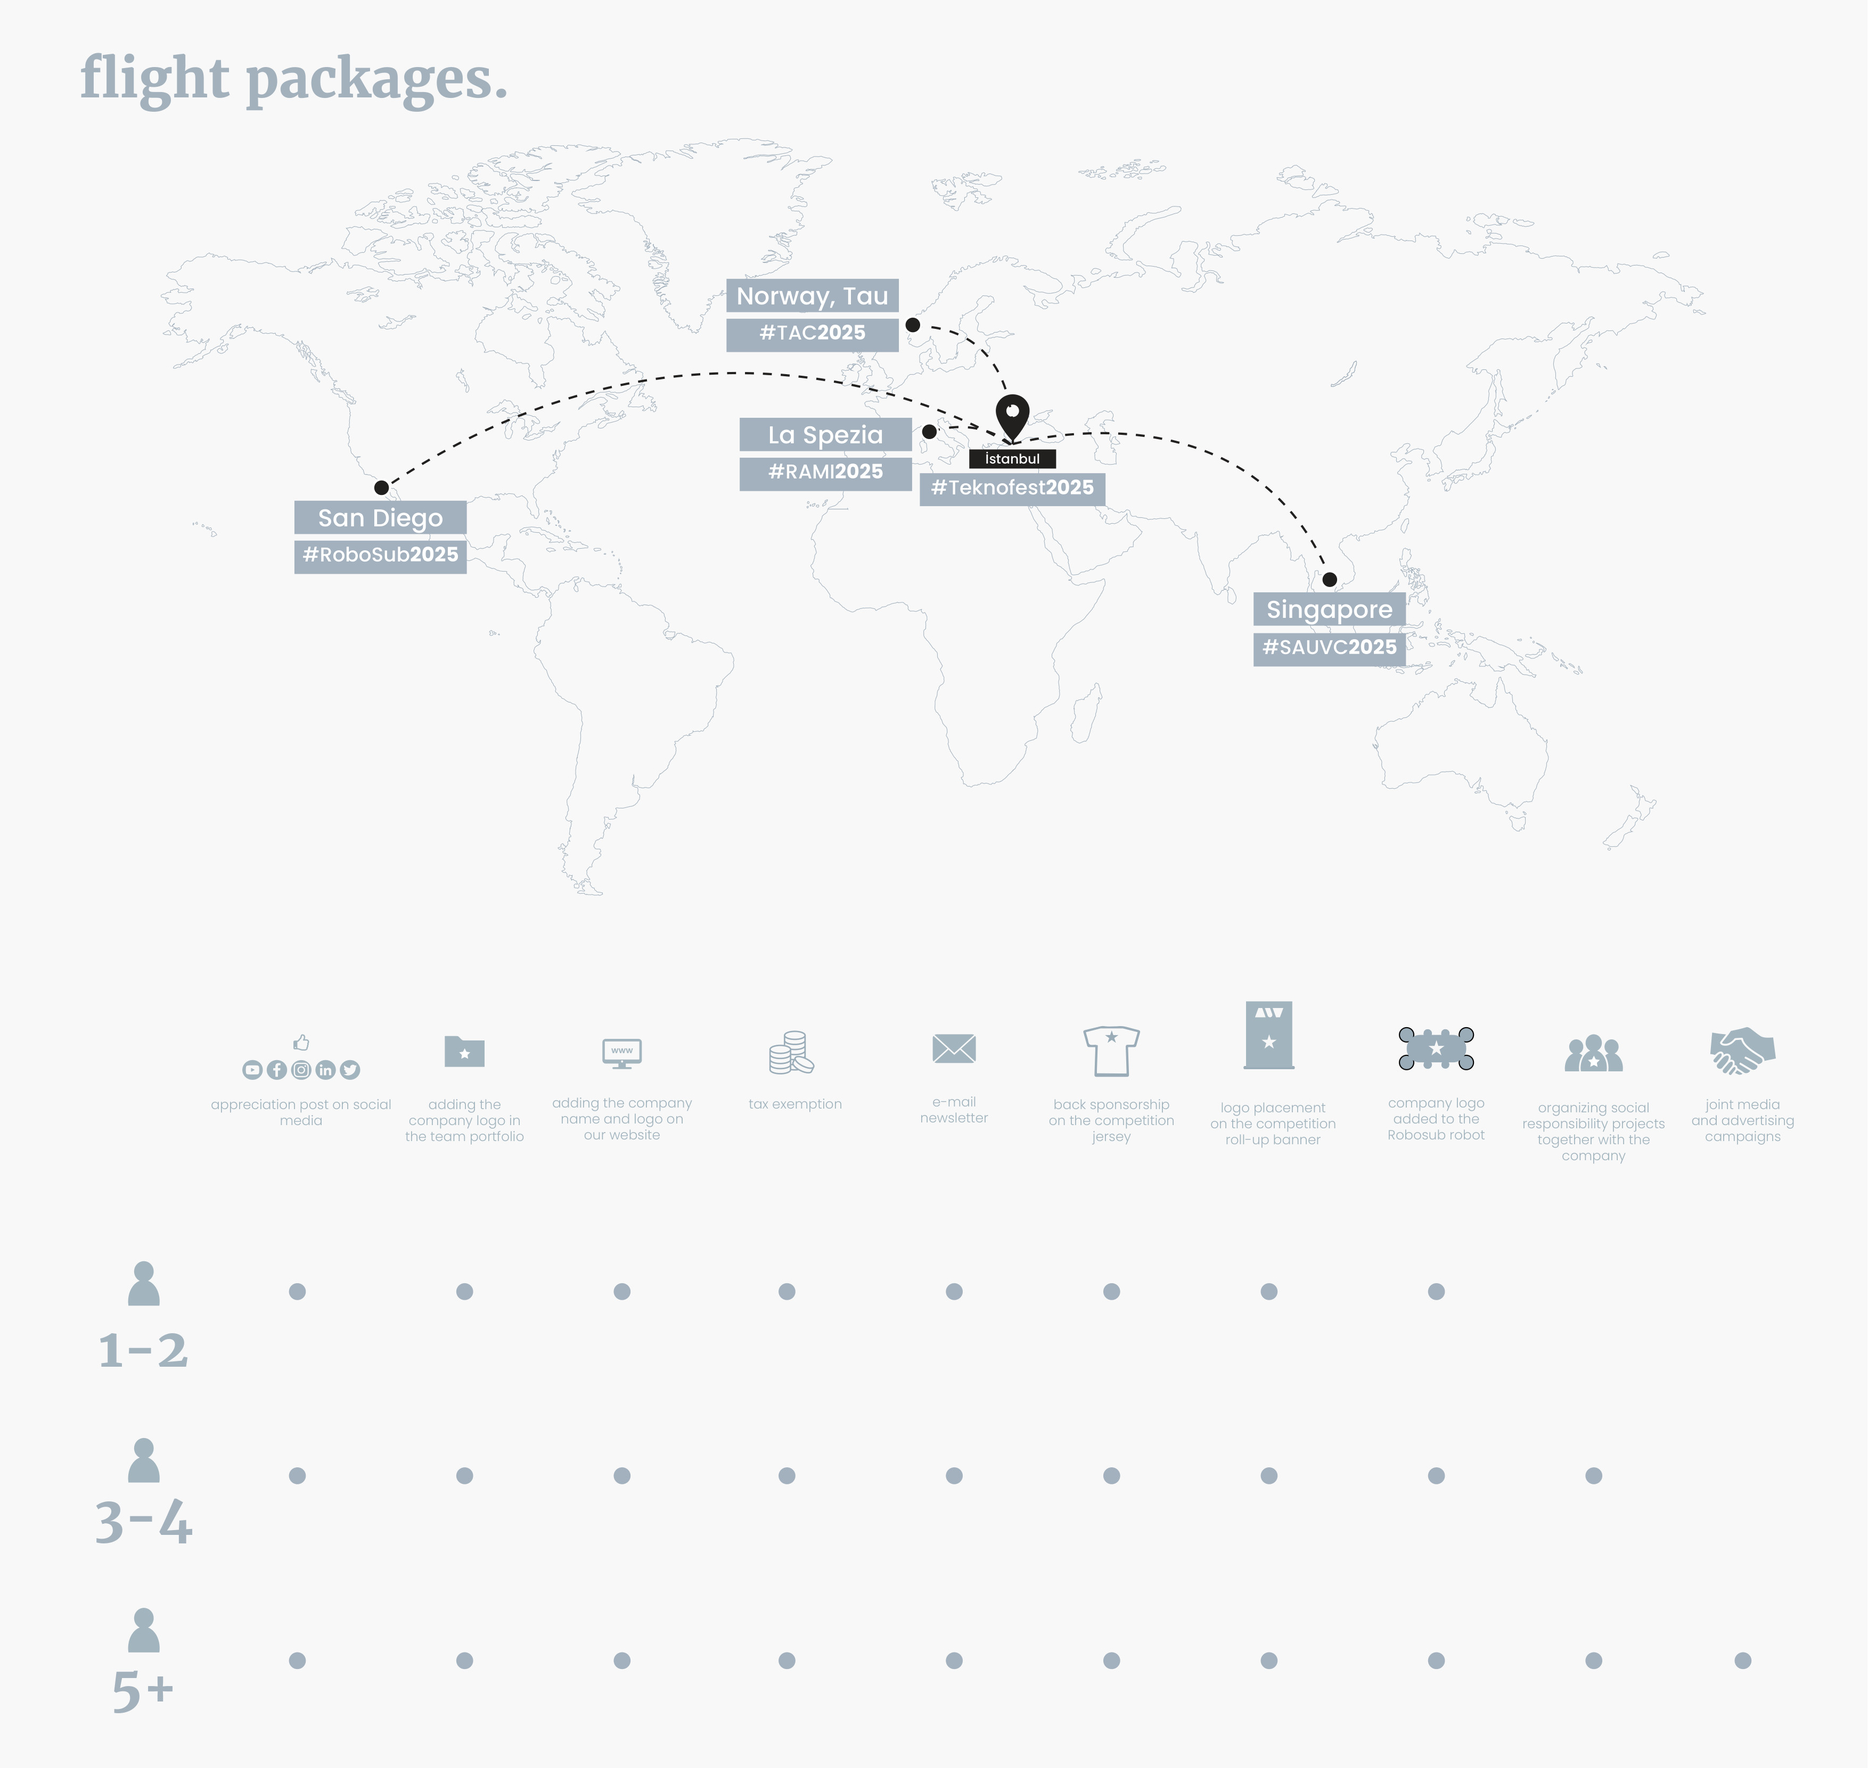
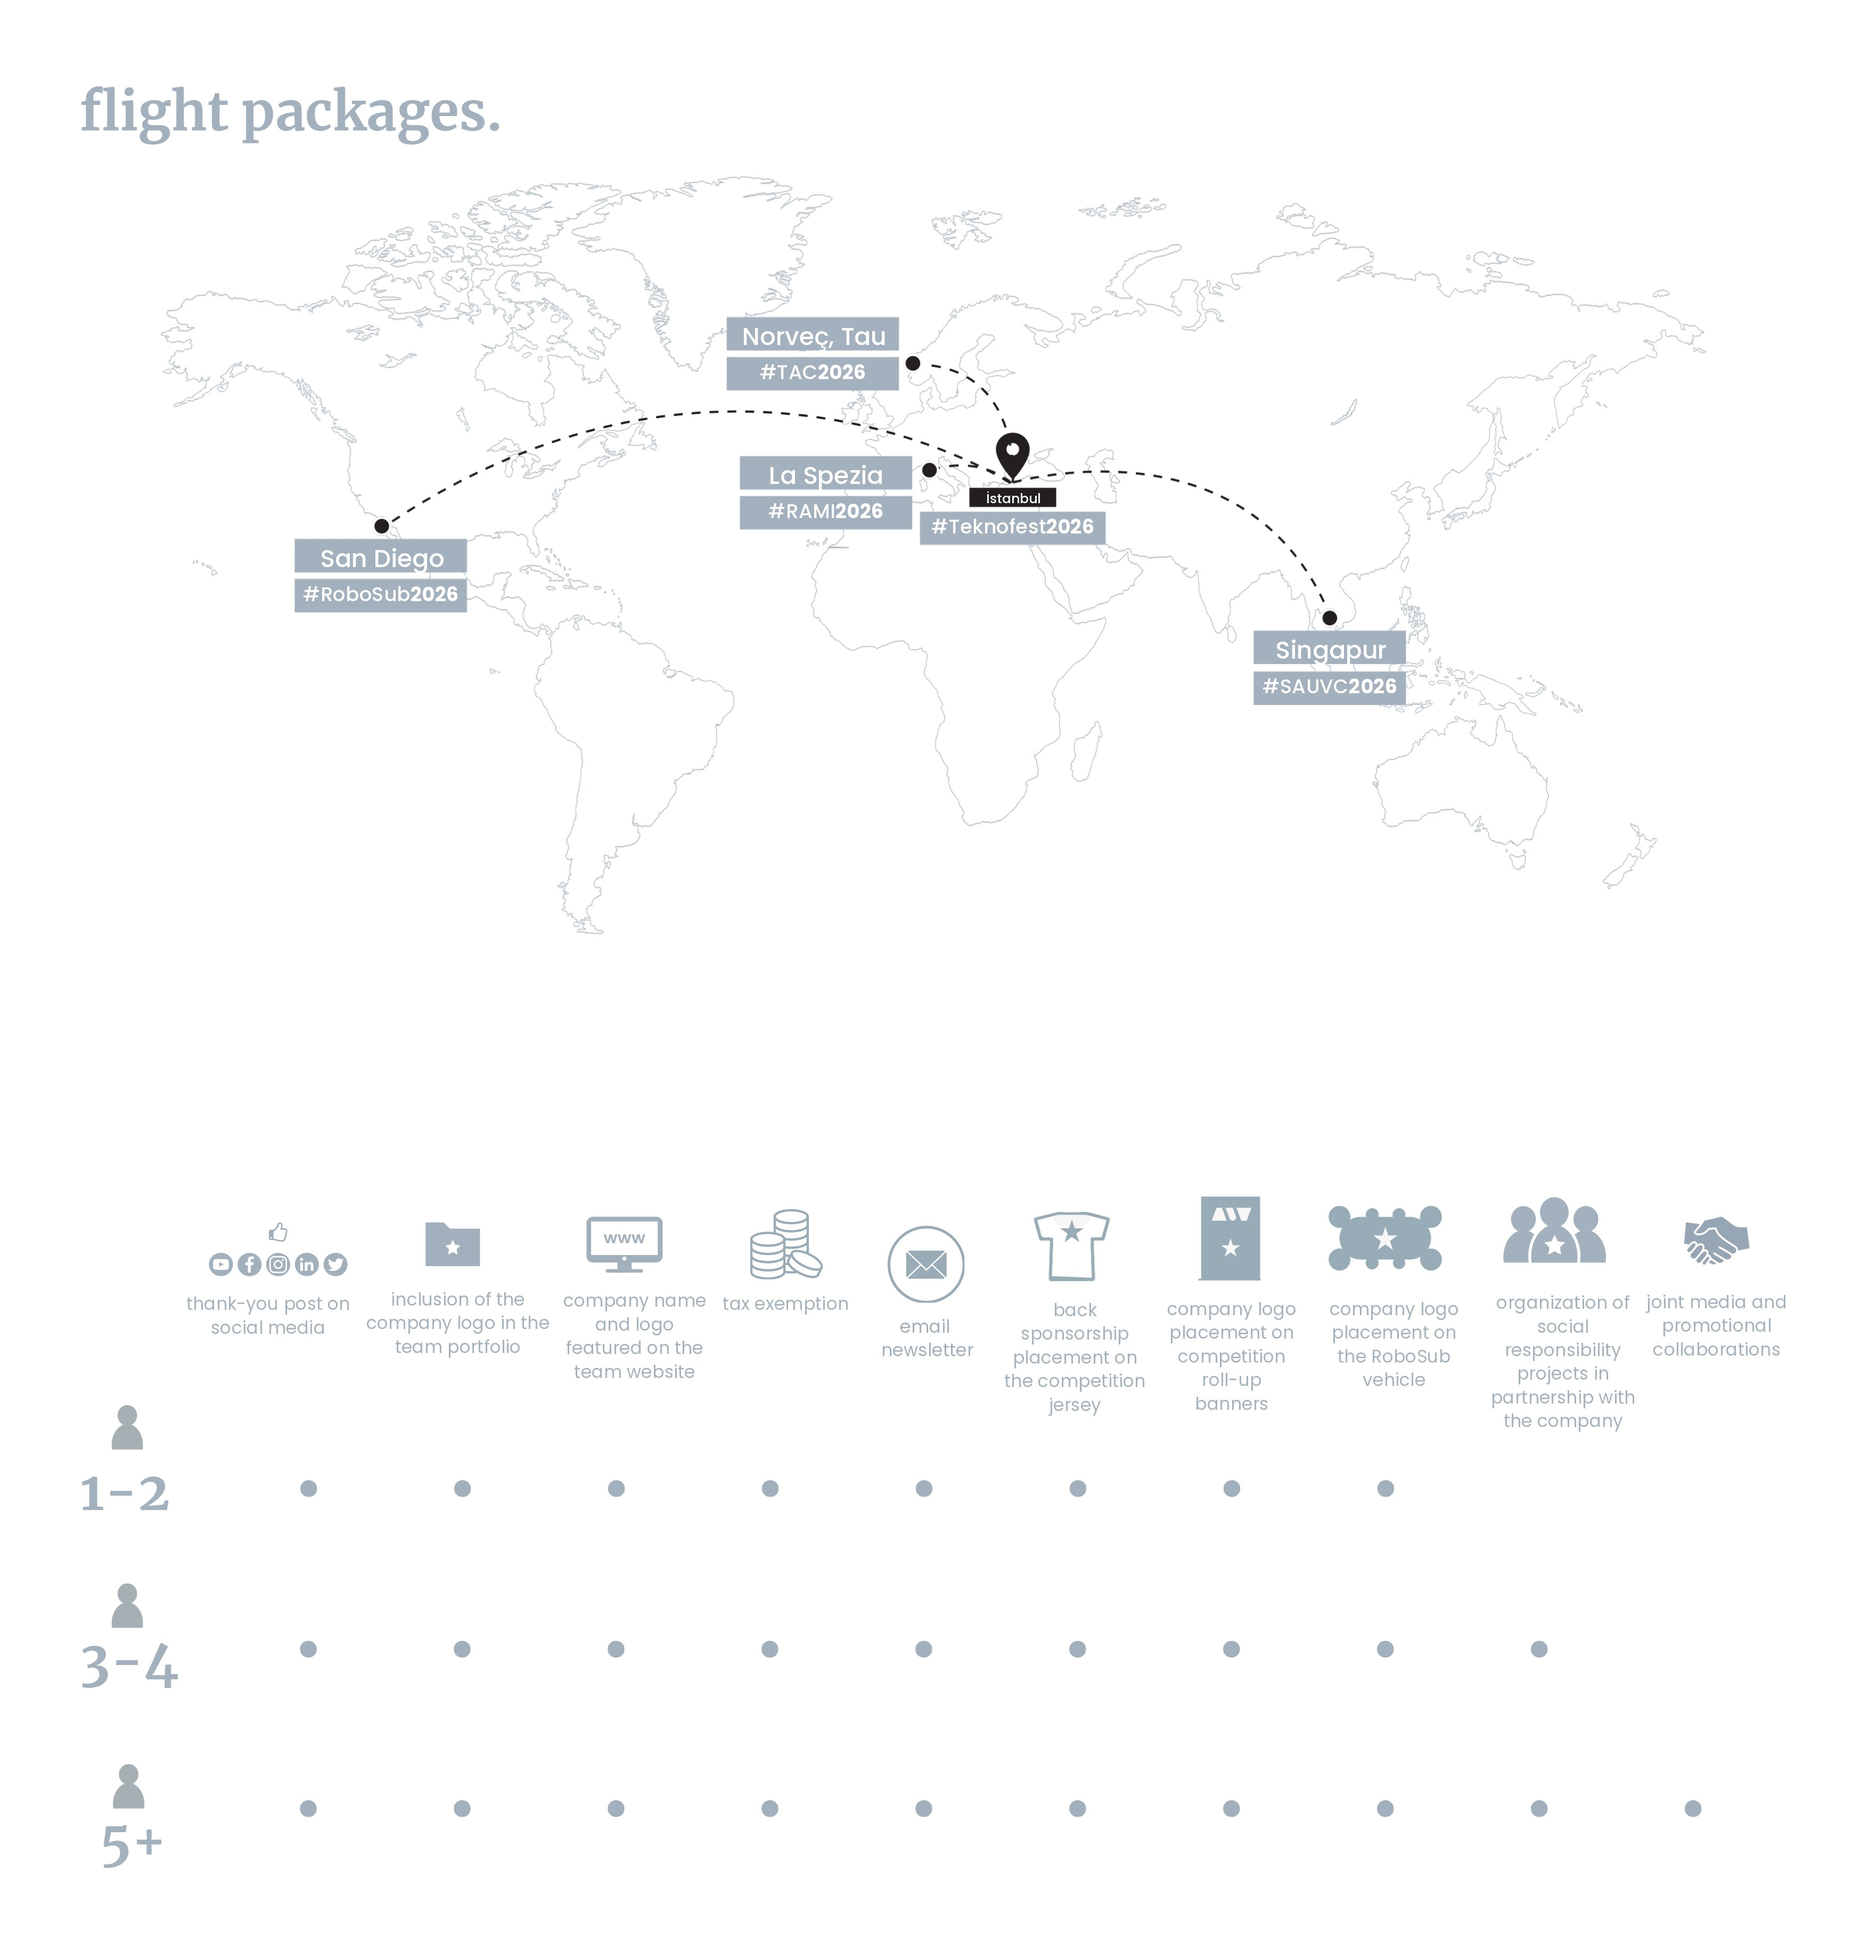
Added t3vakfi.org to sponsorship images; updated flight package sections to fit 2026

diff --git a/public/index.html b/public/index.html
@@ -681,7 +681,7 @@
 			  <!-- tc_sanayi -->
 			  <a href="https://www.sanayi.gov.tr/anasayfa" target="_blank"><div style="position: absolute; left: 19%; top: 3%; width: 25%; height: 20%;"></div></a>
 			  <!-- milliteknoloji -->
-			  <a href="https://www.sanayi.gov.tr/anasayfa" target="_blank"><div style="position: absolute; left: 46%; top: 3%; width: 9%; height: 19%;"></div></a>
+			  <a href="https://t3vakfi.org/tr/hakkimizda/mth/" target="_blank"><div style="position: absolute; left: 46%; top: 3%; width: 9%; height: 19%;"></div></a>
 			  <!-- tubitak -->
 			  <a href="https://tubitak.gov.tr/tr" target="_blank"><div style="position: absolute; left: 59%; top: 4%; width: 7%; height: 19%;"></div></a>
 			  <!-- thy -->

diff --git a/public/indexEN.html b/public/indexEN.html
@@ -698,7 +698,7 @@
 			  <!-- tc_sanayi -->
 			  <a href="https://www.sanayi.gov.tr/anasayfa" target="_blank"><div style="position: absolute; left: 19%; top: 3%; width: 25%; height: 20%;"></div></a>
 			  <!-- milliteknoloji -->
-			  <a href="https://www.sanayi.gov.tr/anasayfa" target="_blank"><div style="position: absolute; left: 46%; top: 3%; width: 9%; height: 19%;"></div></a>
+			  <a href="https://t3vakfi.org/tr/hakkimizda/mth/" target="_blank"><div style="position: absolute; left: 46%; top: 3%; width: 9%; height: 19%;"></div></a>
 			  <!-- tubitak -->
 			  <a href="https://tubitak.gov.tr/tr" target="_blank"><div style="position: absolute; left: 59%; top: 4%; width: 7%; height: 19%;"></div></a>
 			  <!-- thy -->

diff --git a/public/sponsorluk.html b/public/sponsorluk.html
@@ -156,7 +156,7 @@
 			  <!-- tc_sanayi -->
 			  <a href="https://www.sanayi.gov.tr/anasayfa" target="_blank"><div style="position: absolute; left: 19%; top: 3%; width: 25%; height: 20%;"></div></a>
 			  <!-- milliteknoloji -->
-			  <a href="https://www.sanayi.gov.tr/anasayfa" target="_blank"><div style="position: absolute; left: 46%; top: 3%; width: 9%; height: 19%;"></div></a>
+			  <a href="https://t3vakfi.org/tr/hakkimizda/mth/" target="_blank"><div style="position: absolute; left: 46%; top: 3%; width: 9%; height: 19%;"></div></a>
 			  <!-- tubitak -->
 			  <a href="https://tubitak.gov.tr/tr" target="_blank"><div style="position: absolute; left: 59%; top: 4%; width: 7%; height: 19%;"></div></a>
 			  <!-- thy -->

diff --git a/public/sponsorship.html b/public/sponsorship.html
@@ -147,7 +147,7 @@
 			  <!-- tc_sanayi -->
 			  <a href="https://www.sanayi.gov.tr/anasayfa" target="_blank"><div style="position: absolute; left: 19%; top: 3%; width: 25%; height: 20%;"></div></a>
 			  <!-- milliteknoloji -->
-			  <a href="https://www.sanayi.gov.tr/anasayfa" target="_blank"><div style="position: absolute; left: 46%; top: 3%; width: 9%; height: 19%;"></div></a>
+			  <a href="https://t3vakfi.org/tr/hakkimizda/mth/" target="_blank"><div style="position: absolute; left: 46%; top: 3%; width: 9%; height: 19%;"></div></a>
 			  <!-- tubitak -->
 			  <a href="https://tubitak.gov.tr/tr" target="_blank"><div style="position: absolute; left: 59%; top: 4%; width: 7%; height: 19%;"></div></a>
 			  <!-- thy -->
